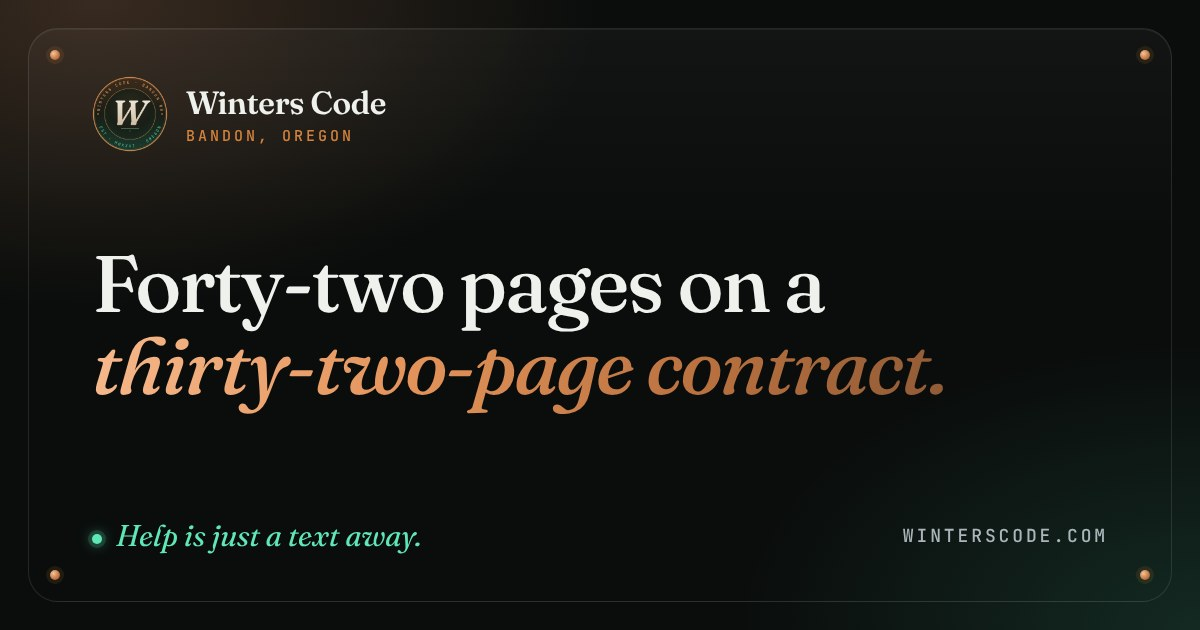
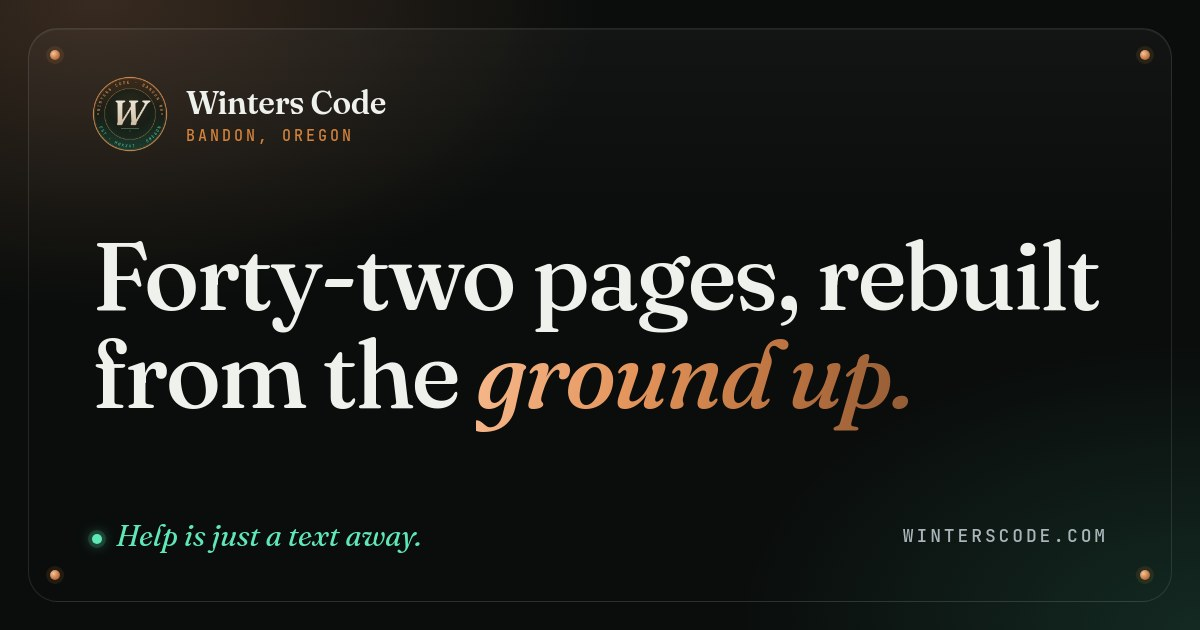
S339 reader pass: repeats and wrong lines out (#58)
* S339 reader pass: every page read top to bottom, repeats and wrong lines out

Preston 2026-11-22: drop the 32/42 line and the login line, read every page
as a reader would, make sure every FAQ is accurate, nothing bad hiding.

Read all 48 pages from the built HTML. What changed:

- US Survey Supply: the 32-page contract is gone everywhere (h1, stat,
  card, scope, share card). The h1 reads "Forty-two pages, rebuilt from the
  ground up." and the build-days stat reads the Wall's data.
- /chere: the "went looking for software ... handed you a login" lines are
  out; Preston never used other software.
- FAQs that repeated their own page are out again. Read in place, the
  answers restored this morning on the service, industry, redesign and logo
  pages said what the spec sheet or a fold above them already says (often
  word for word), so the overhaul's trims there were right.
- Town pages: the localAngle essays stay out for the same reason, and the
  section intros that read the same on all eight towns are gone. Gold Beach
  and Coquille no longer say the same thing twice in a row.
- Facts: Port Orford's dolly dock is "the only dolly dock on the West
  Coast" (Visit the Oregon Coast), not "one of only two in the country";
  the Coquille courthouse is about twenty-five minutes from Bandon, as the
  Coquille page already says; online payment is a bank transfer through
  Stripe, no cards; Chere' setup names the Google Play tester page on
[…]

diff --git a/src/lib/portfolio.ts b/src/lib/portfolio.ts
@@ -138,7 +138,7 @@ export const portfolio: PortfolioItem[] = [
       {
         label: 'Result',
         value:
-          'Live on its own domain since 2026-10-27, on the client\u2019s own Cloudflare account. Mozilla Observatory A+ (the old site measured D-), and Lighthouse and the security grade measured live on the wall.',
+          'Live on its own domain since 2026-10-27, on the client\u2019s own Cloudflare account. Mozilla Observatory A+ (the old site measured D-), and Lighthouse and the security grade measured live on the Wall.',
       },
       {
         label: 'Stack',
@@ -166,7 +166,7 @@ export const portfolio: PortfolioItem[] = [
     name: 'US Survey Supply',
     category: 'site',
     meta: 'ussurveysupply.com · surveying equipment dealer · 42 pages',
-    face: `A Bandon surveying-equipment dealer · 42 pages on a 32-page contract · ${bizDays('taylor')}`,
+    face: `A Bandon surveying-equipment dealer · 42 pages · ${bizDays('taylor')}`,
     tags: ['ASTRO', 'TAILWIND', 'CLOUDFLARE'],
     status: 'live',
     build: 'rebuild',
@@ -195,12 +195,12 @@ export const portfolio: PortfolioItem[] = [
       {
         label: 'Scope',
         value:
-          'Full site for a Bandon surveying-equipment dealer shipping nationwide. New and used GNSS, total stations, data collectors and Carlson software, plus a rental fleet, brochure library, repair and training pages, and a quote request form. 42 pages against a 32-page contract.',
+          'Full site for a Bandon surveying-equipment dealer shipping nationwide. New and used GNSS, total stations, data collectors and Carlson software, plus a rental fleet, brochure library, repair and training pages, and a quote request form.',
       },
       {
         label: 'Result',
         value:
-          'Live and mobile-first. Mozilla Observatory A+, re-verified against the live domain on 2026-09-11, with the grade and Lighthouse both measured live on the wall.',
+          'Live and mobile-first. Mozilla Observatory A+, re-verified against the live domain on 2026-09-11, with the grade and Lighthouse both measured live on the Wall.',
       },
     ],
     links: [
@@ -238,7 +238,7 @@ export const portfolio: PortfolioItem[] = [
       {
         label: 'Result',
         value:
-          'Live on its own domain since 2026-10-19, on the client\u2019s own Cloudflare account. The home and services pages paint themselves in as you scroll and show the finished page at once with reduced motion. Lighthouse and the security grade are measured live on the wall.',
+          'Live on its own domain since 2026-10-19, on the client\u2019s own Cloudflare account. The home and services pages paint themselves in as you scroll and show the finished page at once with reduced motion. Lighthouse and the security grade are measured live on the Wall.',
       },
       {
         label: 'Stack',
@@ -283,7 +283,7 @@ export const portfolio: PortfolioItem[] = [
       },
       {
         label: 'Result',
-        value: 'Live with real RMLS listings, mobile-first, with Lighthouse and the security grade measured live on the wall.',
+        value: 'Live with real RMLS listings, mobile-first, with Lighthouse and the security grade measured live on the Wall.',
       },
     ],
     links: [
@@ -323,7 +323,7 @@ export const portfolio: PortfolioItem[] = [
       },
       {
         label: 'Result',
-        value: 'Live and mobile-first, with Lighthouse and an A+ security grade both measured live on the wall.',
+        value: 'Live and mobile-first, with Lighthouse and an A+ security grade both measured live on the Wall.',
       },
       {
         // S339, Preston 2026-11-05: Search Console screenshots, dated.
@@ -367,7 +367,7 @@ export const portfolio: PortfolioItem[] = [
       },
       {
         label: 'Result',
-        value: 'Live and mobile-first, with the Mozilla Observatory grade and Lighthouse both measured live on the wall.',
+        value: 'Live and mobile-first, with the Mozilla Observatory grade and Lighthouse both measured live on the Wall.',
       },
     ],
     links: [
@@ -407,7 +407,7 @@ export const portfolio: PortfolioItem[] = [
       },
       {
         label: 'Result',
-        value: 'Live and indexed, with its Lighthouse scores measured live on the wall.',
+        value: 'Live and indexed, with its Lighthouse scores measured live on the Wall.',
       },
       {
         // S339, Preston 2026-11-05: Search Console screenshots, dated.
@@ -445,7 +445,7 @@ export const portfolio: PortfolioItem[] = [
       },
       {
         label: 'Result',
-        value: 'Live on her own domain since 2026-09-22, on her own Cloudflare account. Lighthouse and the security grade are measured live on the wall.',
+        value: 'Live on her own domain since 2026-09-22, on her own Cloudflare account. Lighthouse and the security grade are measured live on the Wall.',
       },
       {
         label: 'Stack',
@@ -665,7 +665,7 @@ export const portfolio: PortfolioItem[] = [
     details: [
       {
         label: 'Stack',
-        value: 'Demiurge memory engine (custom, live count on the wall) · Flutter app · BYOK Anthropic',
+        value: 'Demiurge memory engine (custom, live count on the Wall) · Flutter app · BYOK Anthropic',
       },
       {
         label: 'Scope',

diff --git a/src/lib/business.ts b/src/lib/business.ts
@@ -370,7 +370,7 @@ export const towns: TownEntry[] = [
     faq: [
       {
         q: 'Can we meet in person in Bandon?',
-        a: 'Yes, and it is free. Bandon is home base. I will meet at the Warehouse, Bandon Coffee, Broken Anchor, or Bandon Brewing, no deposit, no pitch deck. Small towns run on trust, and that is easier to build face to face.',
+        a: 'Yes, and it is free. Bandon is home base. I will meet at Warehouse Coffee, Bandon Coffee, Broken Anchor, or Bandon Brewing, no deposit, no pitch deck. Small towns run on trust, and that is easier to build face to face.',
       },
       {
         q: 'Have you built for a Bandon business before?',
@@ -418,7 +418,7 @@ export const towns: TownEntry[] = [
       },
       {
         name: 'Healthcare and professional services',
-        note: 'As the county seat, Coquille carries clinics, offices, and professional services that serve the whole valley. For these, loading fast and reading as credible is most of the job.',
+        note: 'Coquille carries clinics, offices, and professional services that serve the whole valley. For these, loading fast and reading as credible is most of the job.',
       },
     ],
     context:
@@ -621,7 +621,7 @@ export const towns: TownEntry[] = [
       },
     ],
     context:
-      'Port Orford, around 1,100 people in Curry County, is home to one of only two dolly docks in the country, where the fishing fleet is hoisted straight out of the water by crane and parked on the dock; by the city\u2019s own count, nearly 30 commercial boats work from it and landed close to $5 million in a recent year.',
+      'Port Orford, around 1,100 people in Curry County, is home to the only dolly dock on the West Coast, where the fishing fleet is hoisted straight out of the water by crane and parked on the dock; by the city\u2019s own count, nearly 30 commercial boats work from it and landed close to $5 million in a recent year.',
     localAngle: {
       heading: 'Why it matters in Port Orford',
       body: 'Port Orford is tiny and remote, which is exactly why a good site pays off. Visitors and gallery buyers research before they make the drive out here, often from well away, because nobody ends up in Port Orford by accident. That means the decision to stop, book, or buy is made online, ahead of time. When the visitor is choosing ahead of time, the business that loads fast and looks the part gets the stop. Small market, high-intent visitors.',
